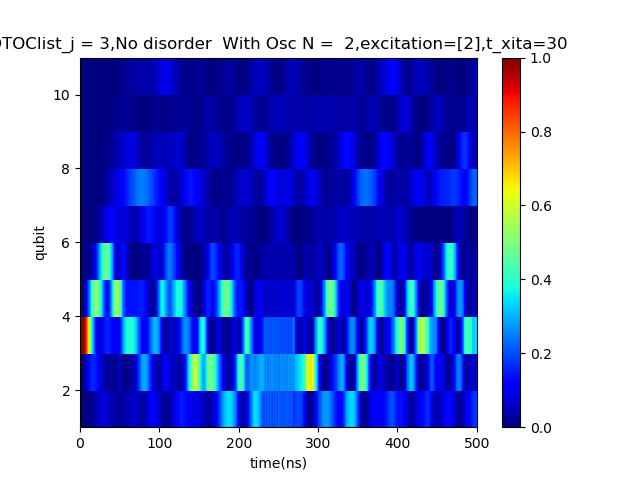
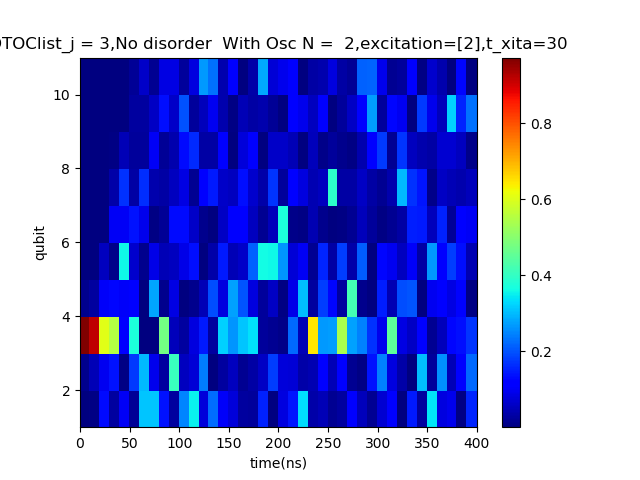
update

diff --git a/programmer/programme/algorithm/ErgodicProximityEffect/ErgodicProximityEffect.py b/programmer/programme/algorithm/ErgodicProximityEffect/ErgodicProximityEffect.py
@@ -4,6 +4,7 @@ import numpy as np
 import matplotlib.pyplot as plt
 from functools import partial
 import random
+from multiprocessing import Pool
 
 def traveling_wave(t,args,args_para):
     '''
@@ -68,6 +69,7 @@ def OTOC_traveling_wave(t,args,args_para):
     t_total = args_para['t_total']
     t_rise = args_para['t_rise']
     t_xita = args_para['t_xita']
+    xita = args_para['xita']
     delta = args_para['delta']
     h1 = args_para['h1']
     omega = args_para['omega']
@@ -75,19 +77,53 @@ def OTOC_traveling_wave(t,args,args_para):
         w = 0
     elif t>0 and t<=t_rise:
         w = delta*(t/t_rise)
-    elif t>t_rise and t<=(t_total-t_xita)/2-t_rise:
+    elif t>t_rise and t<=t_total-t_rise:
         w = delta+h1*np.cos(omega*t)
-    elif t>(t_total-t_xita)/2-t_rise and t<=(t_total-t_xita)/2:
-        w = delta/(t_rise)*((t_total-t_xita)/2-t)
-    elif t>(t_total-t_xita)/2 and t<=(t_total+t_xita)/2:
-        w = 0
-    elif t>(t_total+t_xita)/2 and t<=(t_total+t_xita)/2+t_rise:
-        w = delta*((t-(t_total+t_xita)/2)/t_rise)
-    elif t>(t_total+t_xita)/2+t_rise and t<=t_total-t_rise:
-        w = delta-h1*np.cos(omega*t)
     elif t>t_total-t_rise and t<=t_total:
         w = delta/(t_rise)*(t_total-t)
-    elif t>t_total:
+    elif t>t_total and t<=t_total+t_xita:
+        w = xita
+    elif t>t_total+t_xita and t<=t_total+t_xita+t_rise:
+        w = delta*((t-(t_total+t_xita))/t_rise)
+    elif t>t_total+t_xita+t_rise and t<=2*t_total+t_xita-t_rise:
+        w = delta-h1*np.cos(omega*t)
+    elif t>2*t_total+t_xita-t_rise and t<=2*t_total+t_xita:
+        w = delta/(t_rise)*(2*t_total+t_xita-t)
+    elif t>2*t_total+t_xita:
+        w = 0
+    else:
+        print('Time Error')
+    return(float(w))
+def OTOC_stand_wave(t,args,args_para):
+    '''
+    args:
+        t_total
+        t_rise
+        t_xita
+        delta
+    '''
+    t_total = args_para['t_total']
+    t_rise = args_para['t_rise']
+    t_xita = args_para['t_xita']
+    xita = args_para['xita']
+    delta = args_para['delta']
+    if t<=0 :
+        w = 0
+    elif t>0 and t<=t_rise:
+        w = delta*(t/t_rise)
+    elif t>t_rise and t<=t_total-t_rise:
+        w = delta
+    elif t>t_total-t_rise and t<=t_total:
+        w = delta/(t_rise)*(t_total-t)
+    elif t>t_total and t<=t_total+t_xita:
+        w = xita
+    elif t>t_total+t_xita and t<=t_total+t_xita+t_rise:
+        w = delta*((t-(t_total+t_xita))/t_rise)
+    elif t>t_total+t_xita+t_rise and t<=2*t_total+t_xita-t_rise:
+        w = delta
+    elif t>2*t_total+t_xita-t_rise and t<=2*t_total+t_xita:
+        w = delta/(t_rise)*(2*t_total+t_xita-t)
+    elif t>2*t_total+t_xita:
         w = 0
     else:
         print('Time Error')
@@ -101,12 +137,12 @@ def Drive_Hamiltonian(QBC,frequency_working,t_total,osc,N,):
             ## Ergodic domain
             delta = frequency_working[ii]-QBC.frequency[ii]
             if osc:
-                h1 = N*QBC.coupling[0]*np.cos(2*np.pi*(10-ii)/central_point)
+                h1 = N*QBC.coupling[0]*np.cos(2*np.pi*(12-ii)/central_point)
                 omega = 2*np.sqrt(8*np.pi**2*N*QBC.coupling[0]*QBC.coupling[0]/central_point**2)/3
             else:
                 h1 = 0
                 omega = 0
-            args = {'t_total':t_total , 't_rise':1 , 'delta':delta , 'h1': h1 , 'omega':omega}
+            args = {'t_total':t_total , 't_rise':5 , 'delta':delta , 'h1': h1 , 'omega':omega}
             pulse_shape = partial(traveling_wave , args_para = args)
             drive_pulse.append(pulse_shape)
             Hdrive.append([QBC.sm[ii].dag()*QBC.sm[ii],drive_pulse[ii]])
@@ -121,7 +157,7 @@ def Drive_Hamiltonian(QBC,frequency_working,t_total,osc,N,):
             print('Index Error')
     return(Hdrive)
 
-def Drive_Hamiltonian_OTOC(QBC,frequency_working,t_total,t_xita,osc,N,):
+def Drive_Hamiltonian_OTOC(QBC,frequency_working,t_total,osc,N,):
     Hdrive = []
     drive_pulse = []
     central_point = int(QBC.num_qubits/2)
@@ -130,13 +166,13 @@ def Drive_Hamiltonian_OTOC(QBC,frequency_working,t_total,t_xita,osc,N,):
             ## Ergodic domain
             delta = frequency_working[ii]-QBC.frequency[ii]
             if osc:
-                h1 = N*QBC.coupling[0]*np.cos(2*np.pi*(10-ii)/central_point)
+                h1 = -N*QBC.coupling[0]*np.cos(2*np.pi*(12-ii)/central_point)
                 omega = 2*np.sqrt(8*np.pi**2*N*QBC.coupling[0]*QBC.coupling[0]/central_point**2)/3
             else:
                 h1 = 0
                 omega = 0
-            args = {'t_total':t_total , 't_rise':5 ,'t_xita':t_xita, 'delta':delta , 'h1': h1 , 'omega':omega}
-            pulse_shape = partial(OTOC_traveling_wave , args_para = args)
+            args = {'t_total':t_total , 't_rise':5 , 'delta':delta , 'h1': h1 , 'omega':omega}
+            pulse_shape = partial(traveling_wave , args_para = args)
             drive_pulse.append(pulse_shape)
             Hdrive.append([QBC.sm[ii].dag()*QBC.sm[ii],drive_pulse[ii]])
         elif ii >= central_point and ii <= QBC.num_qubits:
@@ -184,39 +220,42 @@ def initialstate(QBC,excitation = [0]):
     psi = tensor(*psi)
     return(psi)
 
-def plot_evolution(QB,note):
+def plot_evolution(QB,correlator,note):
     tlist = QBC.tlist
     qlist = [ii+1 for ii in range(QBC.num_qubits)]
-
+    correaltion_list = [ii for ii in range(QBC.num_qubits)];correaltion_list.remove(correlator)
     '''
     Projection on Z
     '''
     Zlist = np.zeros([len(qlist),len(tlist)])
     for ii in range(len(qlist)):
         Zlist[ii] = QB.expect_evolution(QB.sm[ii].dag()*QB.sm[ii])
-    x,y = np.meshgrid(tlist,np.r_[qlist,qlist[-1]+1])
+    x,y = np.meshgrid(np.r_[qlist,qlist[-1]+1],tlist)
     # x,y = np.meshgrid(qlist,tlist)
     plt.figure()
-    plt.pcolor(x,y,Zlist,cmap='jet')
+    plt.pcolor(x,y,np.transpose(Zlist),cmap='jet')
     plt.title('population_'+note)
     plt.colorbar()
-    plt.xlabel('time(ns)');plt.ylabel('qubit')
+    plt.xlabel('qubit');plt.ylabel('time(ns)')
+    plt.xticks([i+2 for i in range(len(qlist))],[str(x) for x in qlist])
     plt.savefig('./result/population_'+str(note))
     
     '''
     spatial correlations
     '''
-    XYcorrelation_list = np.zeros([len(qlist)-1,len(tlist)])
-    for ii in range(len(qlist)-1):
-        XYcorrelation_list[ii] = QB.expect_evolution(QB.X_m[-1]*QB.X_m[ii]+QB.Y_m[-1]*QB.Y_m[ii])
-    x,y = np.meshgrid(tlist,np.r_[qlist[1:],qlist[-1]+1])
+
+    XYcorrelation_list = np.zeros([len(correaltion_list),len(tlist)])
+    for ii in range(len(correaltion_list)):
+        XYcorrelation_list[ii] = QB.expect_evolution(QB.X_m[correlator]*QB.X_m[correaltion_list[ii]]+QB.Y_m[correlator]*QB.Y_m[correaltion_list[ii]])
+    x,y = np.meshgrid(np.r_[qlist[1:],qlist[-1]+1],tlist)
     plt.figure()
     
-    plt.pcolor(x,y,XYcorrelation_list,cmap='jet')
+    plt.pcolor(x,y,np.transpose(XYcorrelation_list),cmap='jet')
     
     plt.title('XYcorrelation_'+note)
     plt.colorbar()
-    plt.xlabel('time(ns)');plt.ylabel('qubit')
+    plt.xlabel('qubit');plt.ylabel('time(ns)')
+    plt.xticks([i+2 for i in range(len(correaltion_list))],[str(x+1) for x in correaltion_list])
     plt.savefig('./result/XYcorrelation_'+str(note))
 
     '''
@@ -224,15 +263,16 @@ def plot_evolution(QB,note):
     '''
     ZZcorrelation_list = np.zeros([len(qlist)-1,len(tlist)])
     for ii in range(len(qlist)-1):
-        ZZcorrelation_list[ii] = QB.expect_evolution((QB.E_g[-1]-QB.E_e[-1])*(QB.E_g[ii]-QB.E_e[ii]))-QB.expect_evolution((QB.E_g[-1]-QB.E_e[-1]))*QB.expect_evolution((QB.E_g[ii]-QB.E_e[ii]))
-    x,y = np.meshgrid(tlist,np.r_[qlist[1:],qlist[-1]+1])
+        ZZcorrelation_list[ii] = QB.expect_evolution((QB.E_g[correlator]-QB.E_e[correlator])*(QB.E_g[correaltion_list[ii]]-QB.E_e[correaltion_list[ii]]))-QB.expect_evolution((QB.E_g[correlator]-QB.E_e[correlator]))*QB.expect_evolution((QB.E_g[correaltion_list[ii]]-QB.E_e[correaltion_list[ii]]))
+    x,y = np.meshgrid(np.r_[qlist[1:],qlist[-1]+1],tlist)
     plt.figure()
     
-    plt.pcolor(x,y,ZZcorrelation_list,cmap='jet')
+    plt.pcolor(x,y,np.transpose(ZZcorrelation_list),cmap='jet')
     
     plt.title('ZZcorrelation_'+note)
     plt.colorbar()
-    plt.xlabel('time(ns)');plt.ylabel('qubit')
+    plt.xlabel('qubit');plt.ylabel('time(ns)')
+    plt.xticks([i+2 for i in range(len(correaltion_list))],[str(x+1) for x in correaltion_list])
     plt.savefig('./result/ZZcorrelation_'+str(note))
     
 
@@ -273,10 +313,10 @@ def plt_waveform(QBC,note):
     plt.legend(handles,labels)
     plt.xlabel('time(ns)');plt.ylabel('frequency(GHz)');plt.title('waveform_'+note)
     plt.savefig('./result/waveform_'+str(note))
-    plt.show()
+    # plt.show()
     return()
 
-def ErgodicEffect(QBC , excitation, frequency_working,t_total , osc , note , N ):
+def ErgodicEffect(QBC , excitation, frequency_working,t_total ,correlator, osc , note , N ):
     ini_state = initialstate(QBC , excitation)
     Hdrive = Drive_Hamiltonian(QBC,frequency_working,t_total , osc , N)
     QB = StateEvolution(QBC , Hdrive , ini_state , t_total)
@@ -285,21 +325,51 @@ def ErgodicEffect(QBC , excitation, frequency_working,t_total , osc , note , N )
     omega = 2*np.sqrt(8*np.pi**2*QBC.coupling[0]**2/central_point**2)
     T = 2*np.pi/omega
 
-    data_list = plot_evolution(QB,note)
+    data_list = plot_evolution(QB,correlator,note)
     # plot_tlist = np.linspace(0,t_total,)
     return(data_list)
-def ErgodicEffect_OTOC(QBC , excitation, frequency_working,t_total , t_xita, osc , note , N ):
+def ErgodicEffect_OTOC_single(QBC , excitation, frequency_working,t_total , xita_list, osc ,N ):
     ini_state = initialstate(QBC , excitation)
-    Hdrive = Drive_Hamiltonian_OTOC(QBC,frequency_working , t_total , t_xita , osc , N)
+    Hdrive = Drive_Hamiltonian_OTOC(QBC,frequency_working , t_total  , osc , N)
     QB = StateEvolution(QBC , Hdrive , ini_state , t_total)
 
-    central_point = int(QBC.num_qubits/2)
-    omega = 2*np.sqrt(8*np.pi**2*QBC.coupling[0]**2/central_point**2)
-    T = 2*np.pi/omega
+    Zgate_list = []
+    for ii in range(len(xita_list)):
+        Zgate_list.append(Qobj([[1,0],[0,np.exp(1j*1)]]))
 
-    data_list = plot_evolution_OTOC(QB,note)
+    OTOClist = np.zeros(QBC.num_qubits)
+    for ii in range(QBC.num_qubits):
+        OTOClist[ii] = QB.expect_evolution(QB.sm[ii].dag()*QB.sm[ii])[-1]
+    # data_list = plot_evolution_OTOC(QB,note)
     # plot_tlist = np.linspace(0,t_total,)
-    return(data_list)
+    return(OTOClist)
+def ErgodicEffect_OTOC(QBC , excitation, frequency_working,t_total , t_xita ,  osc , note , N ):
+    qlist = [ii+1 for ii in range(QBC.num_qubits)]
+    tlist = np.linspace(0,t_total,41)
+    '''
+    OTOC
+    '''
+    p = Pool()
+    result = []
+    for i in range(len(tlist)):
+        result.append(p.apply_async(ErgodicEffect_OTOC_single,(QBC , excitation, frequency_working,tlist[i] , t_xita , 2 , osc ,N )))
+    OTOClist = np.array([result[i].get() for i in range(len(result))])
+    OTOClist = np.transpose(OTOClist)
+    p.close()
+    p.join()
+
+    ErgodicEffect_OTOC_single(QBC , excitation, frequency_working, t_total , t_xita , 1 , osc ,N )
+    x,y = np.meshgrid(tlist,np.r_[qlist,qlist[-1]+1])
+    # x,y = np.meshgrid(qlist,tlist)
+    plt.figure()
+    plt.pcolor(x,y,OTOClist,cmap='jet')
+    plt.title('OTOClist_'+note)
+    plt.colorbar()
+    plt.xlabel('time(ns)');plt.ylabel('qubit')
+    plt.savefig('./result/OTOClist_'+str(note))
+
+    # plt.show()
+    return(OTOClist)
 
 def frequency_working_setup(frequency_working,disorder):
     size = np.size(frequency_working)
@@ -308,8 +378,8 @@ def frequency_working_setup(frequency_working,disorder):
     return(frequency_working)
     
 if  __name__ == '__main__':
-    Num_qubits = 10
-    frequency = np.array([4.08996 ,	4.58001 ,	4.00001 ,	4.61999 ,	3.93988 ,	4.44001 ,	4.04027 ,	4.63499 ,	3.95999 ,	4.39998  ])* 2*np.pi
+    Num_qubits = 12
+    frequency = np.array([3.9750 ,	4.50500 ,	4.07000 ,	4.54800 ,	4.03000 ,	4.66400 ,	3.96400 ,	4.46000 ,	4.00400 ,	4.50000 ,	4.06000 ,	4.57000  ])* 2*np.pi
     coupling = np.ones(Num_qubits-1) * 0.0115 * 2*np.pi
     eta_q=  np.ones(Num_qubits) * (-0.25) * 2*np.pi
     N_level= 2
@@ -320,23 +390,25 @@ if  __name__ == '__main__':
     # # frequency_working = np.array([4.43650 ,	4.42855 ,	4.41570 ,	4.41570 ,	4.42855 ,	4.43082 ,	4.40897 ,	4.45854 ,	4.41848 ,	4.39802 ])* 2*np.pi
     # frequency_working = np.array([4.43650 ,	4.42855 ,	4.41570 ,	4.41570 ,	4.42855 ,	4.42504 ,	4.40879 ,	4.50660 ,	4.33894 ,	4.37505 ])* 2*np.pi
     
-    N = 2
+    N = 3
     h0 = N*coupling[0]
-    frequency_working = (4.425)*2*np.pi+h0*np.cos(2*np.pi*(10-np.arange(10))/5)
+    frequency_working = (4.35)*2*np.pi+h0*np.cos(2*np.pi*(12-np.arange(12))/6)
+    frequency_working = np.array([4.3845 ,4.36725 ,4.33275 ,4.31550 ,4.33275 ,4.36725 ,4.38450 ,4.338500 ,4.34195 ,4.28800 ,	4.36900 ,4.3160 ])* 2*np.pi
+    frequency_working = np.array([4.3845 ,4.36725 ,4.33275,4.31550,4.33275,4.36725,4.38525,4.22800,4.42400,4.28600,4.22900,4.2960 ])* 2*np.pi
     # frequency_working = frequency_working_setup(frequency_working,5*coupling[0])
     # frequency_working = frequency_working_setup(frequency_working,10*coupling[0])
 
     # plt.figure();plt.plot(frequency_working/2/np.pi);plt.savefig('./result/frequency_working_No');plt.show()
 
     t_total = 500
-    t_xita = 40
+    # t_xita = 30
     excitation = [2]
-
-    # note = 'j = 3,No disorder No Osc N =  '+str(N)+',excitation='+str(excitation)
-    # data_list = ErgodicEffect(QBC , excitation , frequency_working,t_total , osc = False , note = note , N = N)
-    # plt_waveform(QBC,note = note)
-
-    note = 'j = 3,No disorder  With Osc N =  '+str(N)+',excitation='+str(excitation)+',t_xita='+str(t_xita)
-    data_list = ErgodicEffect_OTOC(QBC , excitation , frequency_working,t_total ,t_xita, osc = True ,  note = note , N = N)
+    correlator = 6
+    note = 'Strong disorder  N =  '+str(N)+',excitation='+str(excitation[0]+1)+',correlator='+str(correlator+1)
+    data_list = ErgodicEffect(QBC , excitation , frequency_working,t_total,correlator = correlator , osc = True , note = note , N = N)
     plt_waveform(QBC,note = note)
+
+    # note = 'j = 4,No disorder  With Osc N =  '+str(N)+',excitation='+str(excitation)+',t_xita='+str(t_xita)
+    # data_list = ErgodicEffect_OTOC(QBC , excitation , frequency_working,t_total ,t_xita, osc = True ,  note = note , N = N)
+    # plt_waveform(QBC,note = note)
     
